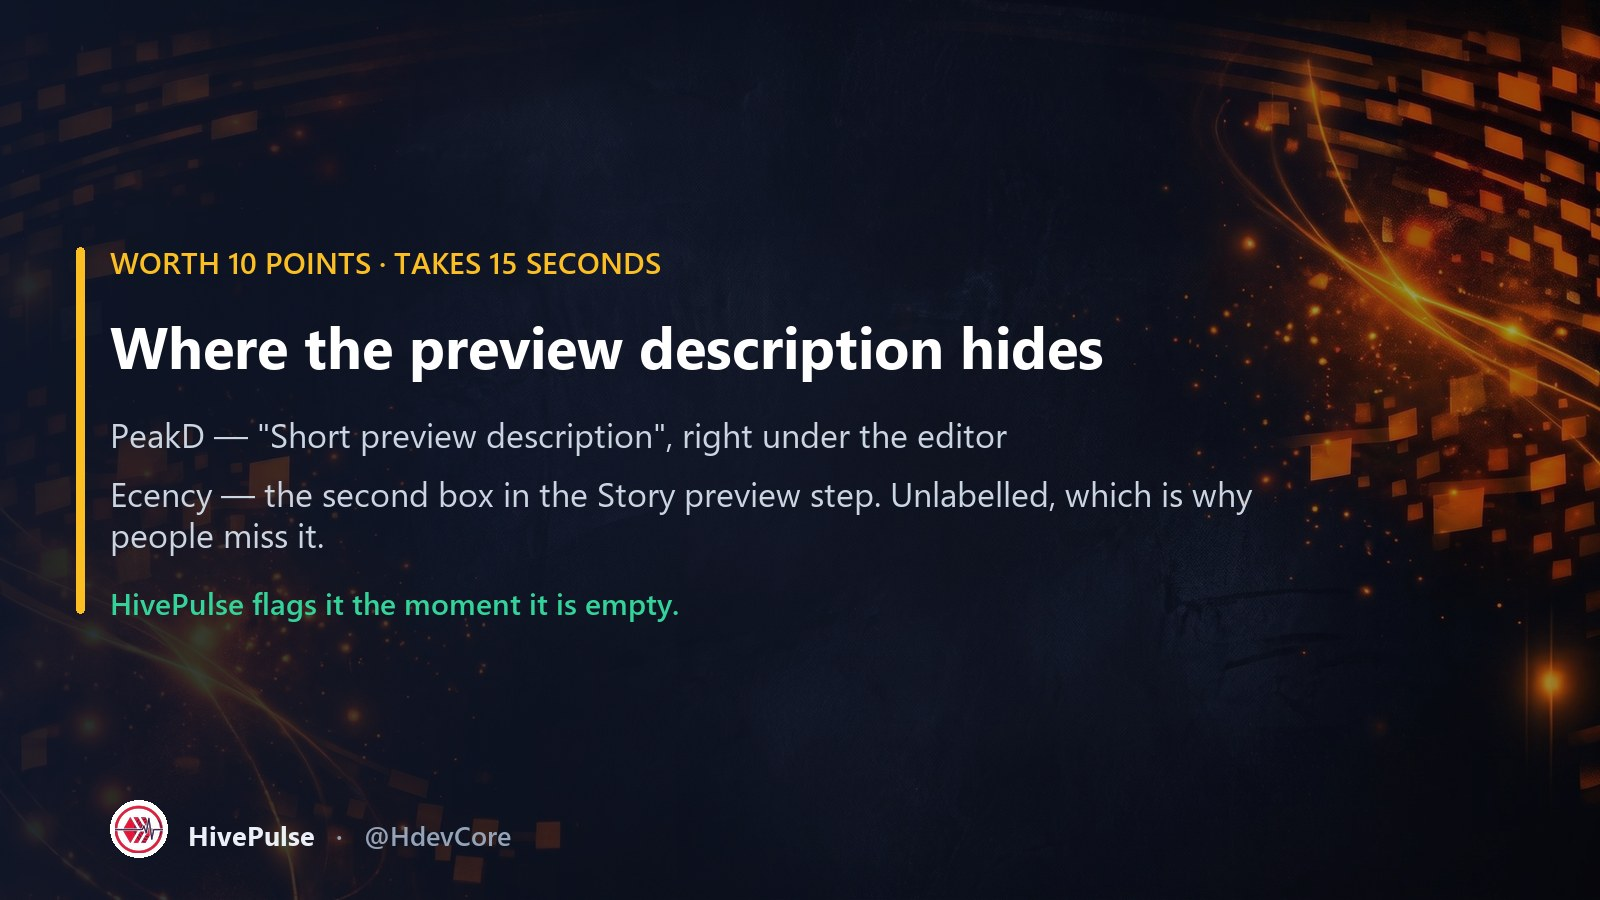
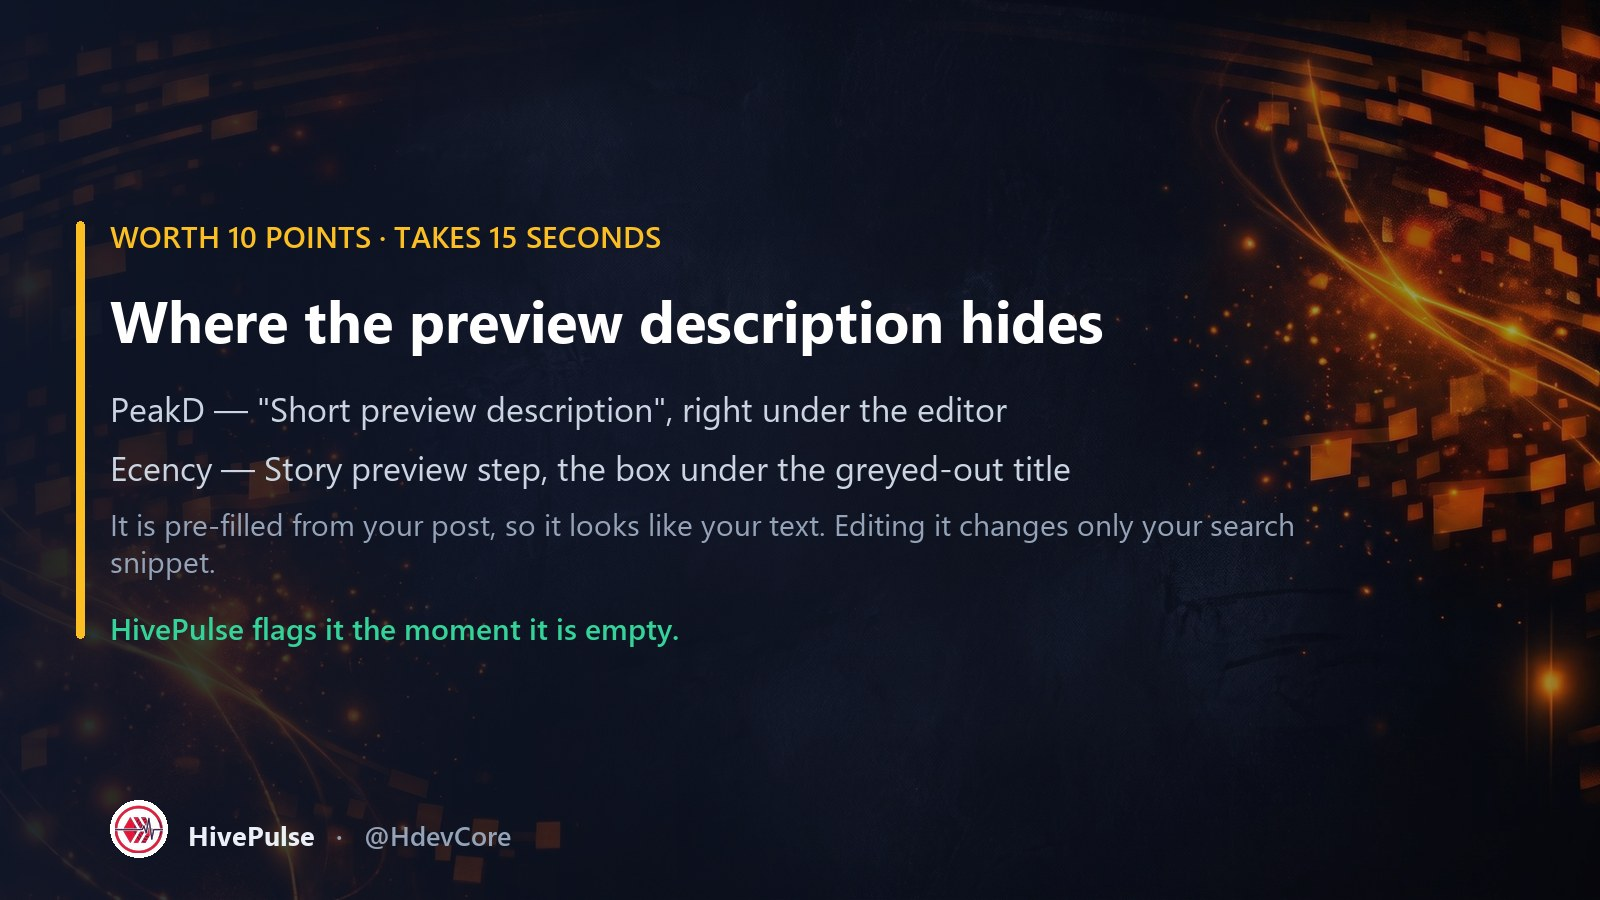
fix: preview-description post — Ecency field confirmed from vision-web source
Resolves what the second box in Ecency's "Story preview" step actually is.
Confirmed against ecency/vision-web rather than by reading screenshots:

PublishValidatePostMeta renders exactly two controls — the title as
disabled/read-only, then a textarea bound to metaDescription with maxLength and
placeholder publish.preview-subtitle ("Preview subtitle.."). The note beneath is
publish.description-hint, "Helps to search engine systems to find out this post".

It reads as a content field because Ecency pre-fills it from the body summary
(postBodySummary), so it displays the post's opening text while writing only to
metaDescription.

This also explains our own selectors: compose.ts matches
textarea[placeholder*="subtitle" i] because Ecency's English placeholder is
"Preview subtitle..", and needs the textarea[maxlength] fallback because
localised builds render it "Voorbeeld ondertitel.." / "Anteprima sottotitolo..".

InLeo remains unverified and stays out of the copy.

Changed region(s): [[0.0312, 0.3111, 0.8125, 0.7156], [0.0312, 0.2489, 0.4375, 0.3111]]

diff --git a/scripts/make_social_cards.py b/scripts/make_social_cards.py
@@ -151,8 +151,10 @@ CARDS = [
             {'text': 'Where the preview description hides', 'size': 58, 'gap': 34},
             {'text': 'PeakD — "Short preview description", right under the editor',
              'size': 34, 'weight': 'reg', 'color': MUTED, 'gap': 18},
-            {'text': 'Ecency — the second box in the Story preview step. Unlabelled, which is why people miss it.',
-             'size': 34, 'weight': 'reg', 'color': MUTED, 'gap': 30},
+            {'text': 'Ecency — Story preview step, the box under the greyed-out title',
+             'size': 34, 'weight': 'reg', 'color': MUTED, 'gap': 18},
+            {'text': 'It is pre-filled from your post, so it looks like your text. Editing it changes only your search snippet.',
+             'size': 30, 'weight': 'reg', 'color': DIM, 'gap': 30},
             {'text': 'HivePulse flags it the moment it is empty.', 'size': 30, 'weight': 'semi', 'color': EMERALD},
         ],
     },

diff --git a/enhancements/x-plan-week2.md b/enhancements/x-plan-week2.md
@@ -62,21 +62,25 @@ Entries went into Hive comments only. The score screenshot is exactly the "share
 
 **19:00 — friction killer #1**
 
-> Empty preview description = 10 points lost. Takes 15 seconds to fix.
+> Empty preview description = 10 lost points. 15 seconds to fix.
 >
-> PeakD → "Short preview description", right under the editor.
-> Ecency → the second box in the Story preview step. Unlabelled, which is why people miss it.
+> PeakD → "Short preview description", under the editor.
+> Ecency → Story preview step, the box under the greyed title. Pre-filled from your post, so it looks like your text — it isn't.
 >
-> HivePulse flags it the moment it's empty.
+> HivePulse flags it when empty.
 
-*266 characters. Attach `enhancements/images/social/wed-description.jpg`.*
+*275 characters. Attach `enhancements/images/social/wed-description.jpg`.*
 
-**Verified against live editors (screenshots, 5 Aug):**
-- **PeakD** — input labelled "Short preview description", directly below the editor body and above Topics, 0/120 counter. Placeholder text matches, so the analyzer finds it normally.
-- **Ecency** — present in the step-2 "Story preview" modal as the **second, larger box** beneath the title box. **No label, no placeholder** — the note underneath only says changes affect "how your story appears… in a search engine systems". This is the root cause of the week-1 confusion, and why `compose.ts` needs its `textarea[maxlength]` fallback: there is no placeholder text to match on.
-- **InLeo** — not verified, deliberately left out of the copy. No week-1 entry used InLeo (all eight came from Ecency or PeakD), so naming only those two costs nothing.
+**Verified — PeakD from a live screenshot, Ecency from its open source (`ecency/vision-web`):**
 
-*Worth raising with Ecency separately: an unlabelled field that two contest entrants independently failed to find is a UX bug, not a user error.*
+- **PeakD** — input labelled "Short preview description", directly below the editor body and above Topics, 0/120 counter.
+- **Ecency** — in the step-2 "Story preview" modal. `PublishValidatePostMeta` renders exactly two controls: the title as `disabled` (read-only), then a textarea bound to `metaDescription` with `maxLength`, placeholder `publish.preview-subtitle` = **"Preview subtitle.."**. The note beneath is `publish.description-hint` = *"Helps to search engine systems to find out this post"*.
+  **Why it confuses everyone:** Ecency pre-fills that box from the body summary (`postBodySummary(content, …)`), so it displays your post text and reads as a content field. Typing in it writes to `metaDescription` only — your post is untouched.
+- **InLeo** — unverified, deliberately omitted. All eight week-1 entries came from Ecency or PeakD.
+
+*This also explains `compose.ts`: it matches `textarea[placeholder*="subtitle" i]` because Ecency's English placeholder is "Preview subtitle..", and needs the `textarea[maxlength]` fallback because localised builds render it "Voorbeeld ondertitel.." / "Anteprima sottotitolo..".*
+
+⚠ **Never assert a per-frontend UI path without checking the live editor or the frontend's source.** An earlier draft invented "PeakD → Post Options / Ecency → step 2 / InLeo → Preview Description"; all three were wrong and the post was pulled.
 
 ⚠ **Do not add per-frontend menu paths to this post without opening each frontend and confirming.** An earlier draft asserted "PeakD → Post Options / Ecency → step 2 / InLeo → Preview Description"; all three were invented and the post was pulled. The analyzer itself never looks for a menu path — `getMetaDescription()` in `compose.ts` matches the field by placeholder text (`preview`, `descri`, `beschr`, `excerpt`, `subtitle`, `summary`, `resum`), plus an Ecency fallback that finds the `textarea[maxlength]`. Frontend-agnostic wording is safer and ages better.
 
